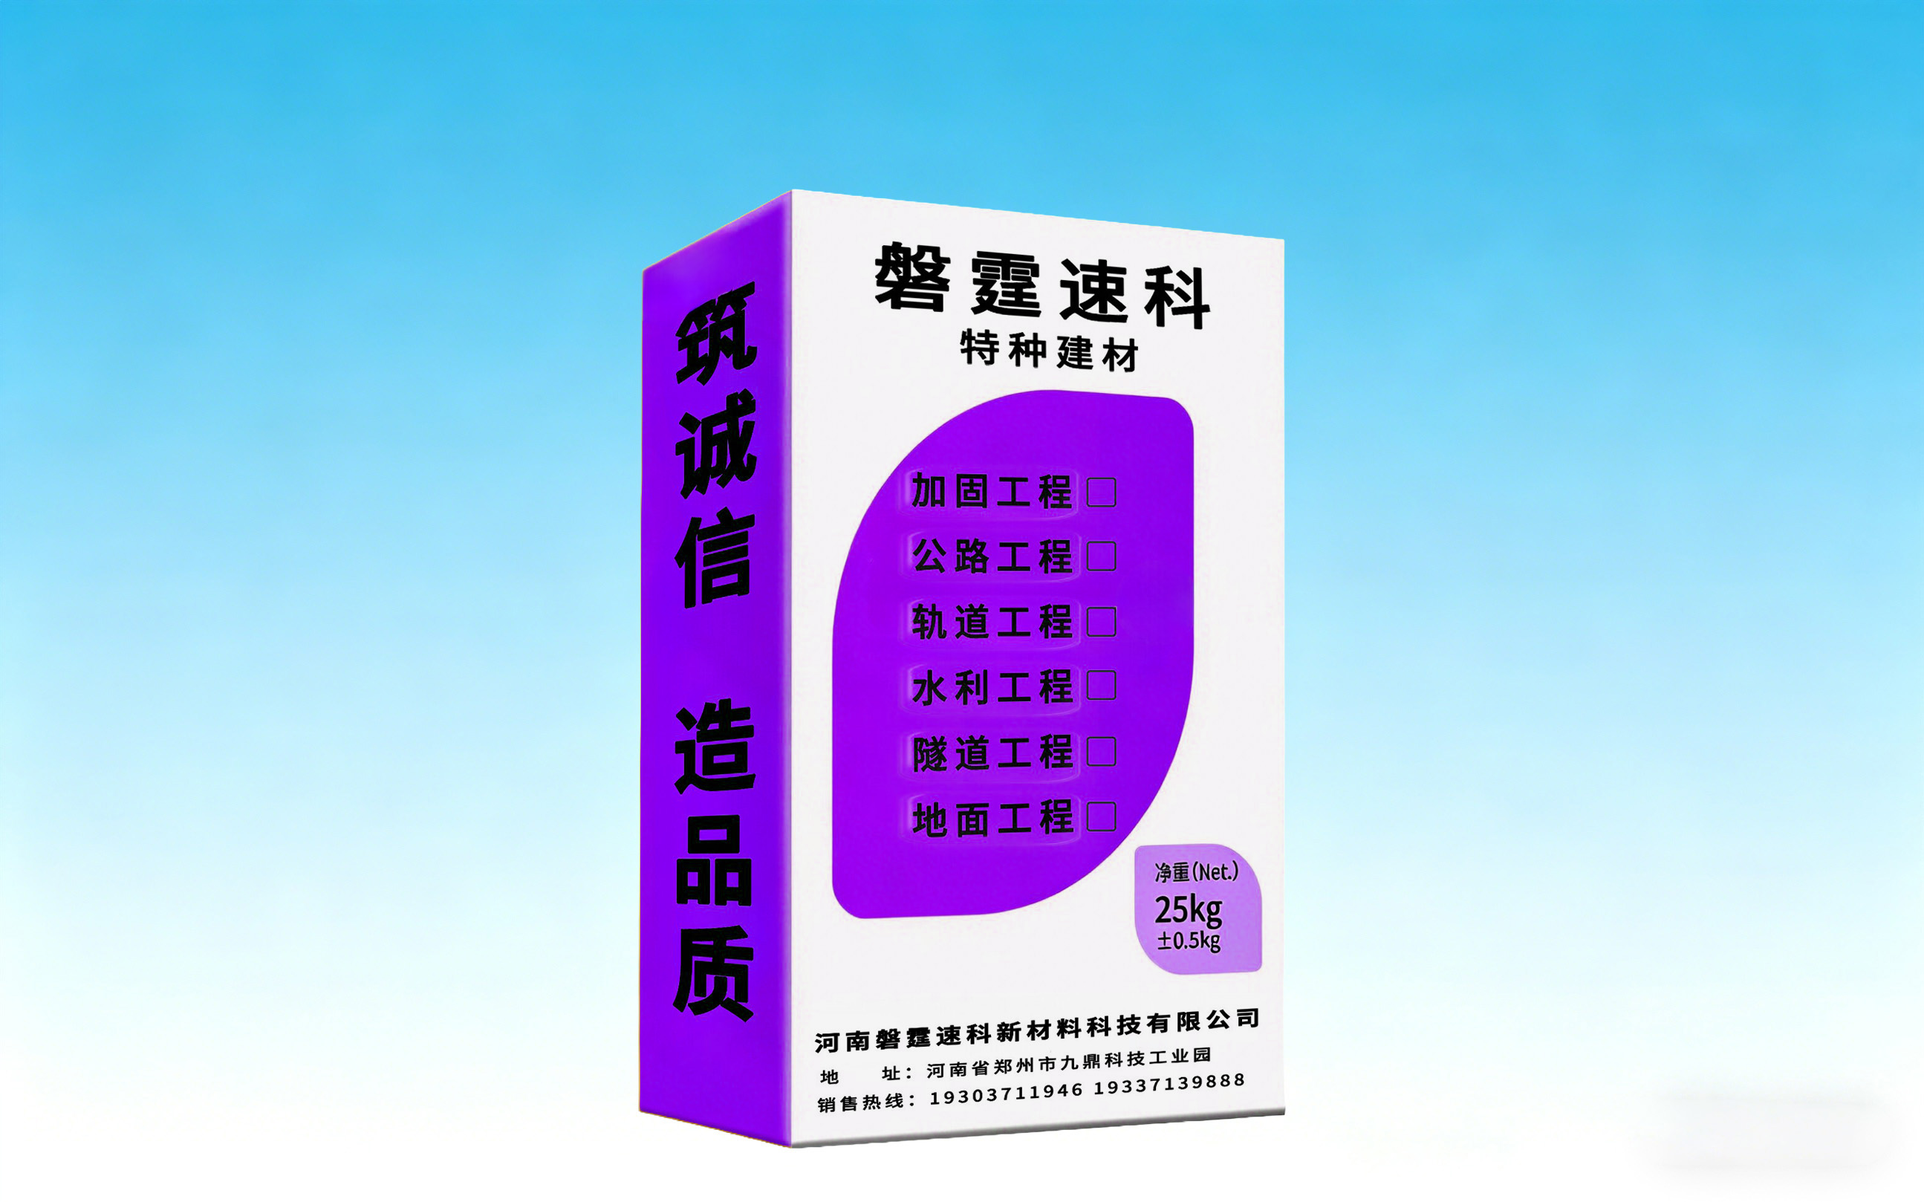
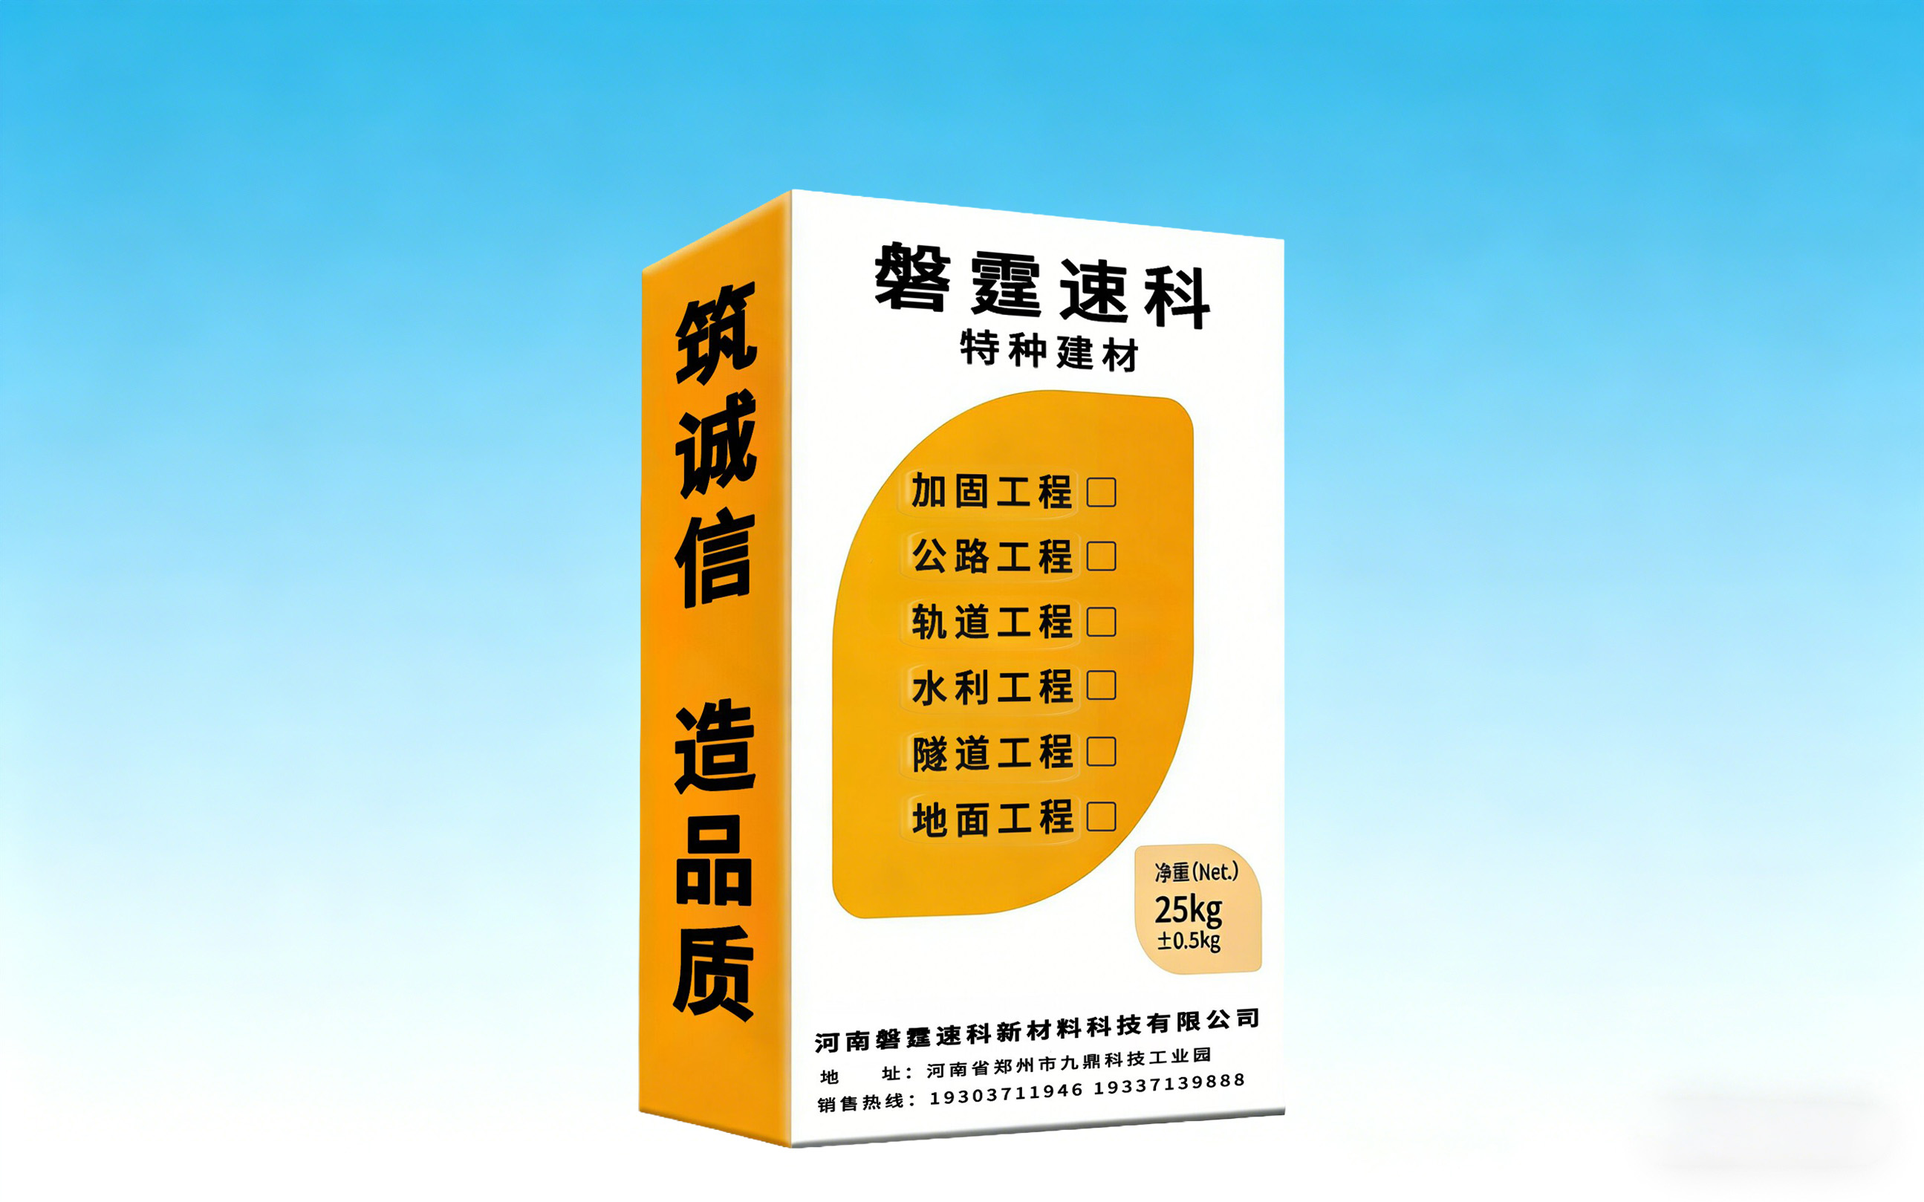
全部产品封面统一更换为products-1.jpg

Changed region(s): [[0.3089, 0.1545, 0.6795, 0.958]]

diff --git a/src/data/siteData.ts b/src/data/siteData.ts
@@ -77,7 +77,7 @@ export const initialProducts: Product[] = [
     name: '高强度无收缩灌浆料',
     category: 'guanjiang',
     description: '适用于设备基础二次灌浆、地脚螺栓锚固、钢结构柱脚底板灌浆等，具有高强度、无收缩、自流平特点。',
-    image: '/images/products/products-2.jpg',
+    image: '/images/products/products-1.jpg',
     features: ['早强高强', '自流平性', '无收缩', '耐久性好']
   },
   {
@@ -85,7 +85,7 @@ export const initialProducts: Product[] = [
     name: 'CGM风电专用灌浆料',
     category: 'guanjiang',
     description: '主要应用于陆上风力发电机超高强度水泥基灌浆，无收缩水泥基灌浆材料，具有高早期强度和终强度，高耐疲劳性，适用于风电等大型设备基础二次灌浆。',
-    image: '/images/products/products-2.jpg',
+    image: '/images/products/products-1.jpg',
     features: ['强度超高', '粘结力强', '耐久性好', '施工方便', '环保性好']
   },
   {
@@ -93,7 +93,7 @@ export const initialProducts: Product[] = [
     name: '聚合物防水砂浆',
     category: 'fangshui',
     description: '用于地下室、卫生间、水池等防水工程，抗渗性能优异。',
-    image: '/images/products/products-2.jpg',
+    image: '/images/products/products-1.jpg',
     features: ['抗渗性强', '粘结牢固', '耐腐蚀']
   },
   {
@@ -101,7 +101,7 @@ export const initialProducts: Product[] = [
     name: '丙乳砂浆',
     category: 'shajiang',
     description: '丙乳砂浆是一种新型混凝土建筑物修补材料，属于高分子聚合物乳液改性水泥砂浆，具有优异的粘结、抗裂、防水、防氯离子渗透、耐磨、耐老化等性能，成本低、施工工艺简单。',
-    image: '/images/products/products-2.jpg',
+    image: '/images/products/products-1.jpg',
     features: ['粘结力强', '抗裂性好', '防水防渗', '耐老化', '施工简便']
   },
   {
@@ -109,7 +109,7 @@ export const initialProducts: Product[] = [
     name: '重金属不发火砂浆',
     category: 'shajiang',
     description: '重金属不发火砂浆是一种功能性防爆砂浆，在受到冲击、摩擦或撞击时不产生火花，具有不燃、防爆、高耐磨、高强度、耐久性等特性，适用于易燃易爆场所。',
-    image: '/images/products/products-2.jpg',
+    image: '/images/products/products-1.jpg',
     features: ['不燃不爆', '高耐磨性', '高强度耐久', '环保安全', '施工方便']
   },
   {
@@ -117,7 +117,7 @@ export const initialProducts: Product[] = [
     name: '混凝土CPC防碳化涂料',
     category: 'fangshui',
     description: '高性能液体聚合物-水泥复合防碳化材料，含有独特组分与水泥水化产物反应，形成聚合物-水泥互穿网络结构，有效防止混凝土碳化。',
-    image: '/images/products/products-2.jpg',
+    image: '/images/products/products-1.jpg',
     features: ['防碳化', '渗透性强', '粘结牢固', '耐候性好']
   },
   {
@@ -125,7 +125,7 @@ export const initialProducts: Product[] = [
     name: '混凝土色差修复剂',
     category: 'fangshui',
     description: '用于修补各类混凝土表面，包括路面、桥面、机场跑道等，解决起砂、开裂等表面问题，可定制多种颜色。',
-    image: '/images/products/products-2.jpg',
+    image: '/images/products/products-1.jpg',
     features: ['修复色差', '颜色可定制', '附着力强', '耐久性好']
   },
   {
@@ -133,7 +133,7 @@ export const initialProducts: Product[] = [
     name: '重载耐磨地面砂浆',
     category: 'shajiang',
     description: '特种干混砂浆，能够承受重型机械摩擦和冲击，适用于金属撞击易产生火花引发火灾或爆炸危险的环境。',
-    image: '/images/products/products-2.jpg',
+    image: '/images/products/products-1.jpg',
     features: ['高耐磨', '抗冲击', '耐重载', '使用寿命长']
   },
   {
@@ -141,7 +141,7 @@ export const initialProducts: Product[] = [
     name: '钢筋连接套筒灌浆料',
     category: 'guanjiang',
     description: '由水泥、细骨料、矿物掺合料预拌而成的干混砂浆，具有低泌水、流动度好、强度高、微膨胀不收缩特点，适用于装配式建筑连接和基础灌浆。',
-    image: '/images/products/products-2.jpg',
+    image: '/images/products/products-1.jpg',
     features: ['低泌水', '流动度好', '强度高', '微膨胀不收缩']
   },
   {
@@ -149,7 +149,7 @@ export const initialProducts: Product[] = [
     name: '桥梁支座灌浆料',
     category: 'guanjiang',
     description: '高性能特种灌浆材料，主要适用于铁路、公路、桥梁等工程中的支座安装灌浆，以高强度骨料、高分子聚合物及各种外加剂混合而成的干混水泥基灌浆材料。',
-    image: '/images/products/products-2.jpg',
+    image: '/images/products/products-1.jpg',
     features: ['和易性好', '早强高强', '微膨胀', '可低温施工']
   },
   {
@@ -157,7 +157,7 @@ export const initialProducts: Product[] = [
     name: '保温砂浆',
     category: 'zhuangpeishi',
     description: '水泥基特种砂浆，具有保温隔热功能，适用于内外墙及屋顶保温层，满足建筑节能要求。',
-    image: '/images/products/products-4.jpg',
+    image: '/images/products/products-1.jpg',
     features: ['保温隔热', '节能环保', '施工方便', '粘结力强']
   },
   {
@@ -165,7 +165,7 @@ export const initialProducts: Product[] = [
     name: '自流平砂浆',
     category: 'shajiang',
     description: '水泥基自流平材料，能够自动流平无需振捣，用于地板铺设前的地面找平处理。',
-    image: '/images/products/products-2.jpg',
+    image: '/images/products/products-1.jpg',
     features: ['自动流平', '无需振捣', '平整度高', '施工快捷']
   },
   {
@@ -173,7 +173,7 @@ export const initialProducts: Product[] = [
     name: '重载防静电砂浆',
     category: 'shajiang',
     description: '防静电特种砂浆，在摩擦或撞击时不产生火花，适用于处理易燃易爆材料的环境，具有防静电和防爆双重功能。',
-    image: '/images/products/products-2.jpg',
+    image: '/images/products/products-1.jpg',
     features: ['防静电', '防爆防火', '高耐磨', '安全可靠']
   },
   {
@@ -181,7 +181,7 @@ export const initialProducts: Product[] = [
     name: '隔音砂浆',
     category: 'shajiang',
     description: '水泥基隔音特种砂浆，用于内墙和楼板隔音，有效解决冲击噪声和空气传声问题。',
-    image: '/images/products/products-2.jpg',
+    image: '/images/products/products-1.jpg',
     features: ['隔音降噪', '施工便捷', '粘结力强', '环保无害']
   },
   {
@@ -189,7 +189,7 @@ export const initialProducts: Product[] = [
     name: '找平砂浆',
     category: 'shajiang',
     description: '水泥基找平材料，具有高流动性、自密实特性，无需人工振捣即可自动找平。',
-    image: '/images/products/products-2.jpg',
+    image: '/images/products/products-1.jpg',
     features: ['自流平', '高流动性', '平整度高', '省工省时']
   },
   {
@@ -197,7 +197,7 @@ export const initialProducts: Product[] = [
     name: '锚栓砂浆',
     category: 'shajiang',
     description: '以水泥砂浆作为粘结剂的全粘结锚栓材料，将锚栓与周围岩土粘结形成整体，用于边坡和岩体结构加固。',
-    image: '/images/products/products-2.jpg',
+    image: '/images/products/products-1.jpg',
     features: ['锚固可靠', '粘结力强', '耐久稳定', '施工方便']
   },
   {
@@ -205,7 +205,7 @@ export const initialProducts: Product[] = [
     name: '界面砂浆',
     category: 'shajiang',
     description: '用于不同基层之间的粘结材料，提供新旧抹灰层之间的双面粘结力，防止空鼓、开裂和剥落。',
-    image: '/images/products/products-2.jpg',
+    image: '/images/products/products-1.jpg',
     features: ['双面粘结', '防空鼓', '防开裂', '附着力强']
   },
   {
@@ -213,7 +213,7 @@ export const initialProducts: Product[] = [
     name: '自密实砂浆',
     category: 'shajiang',
     description: '高性能特种砂浆，具有高流动性、耐候性和填充性，能自动填充复杂模板并包裹钢筋形成密实结构。',
-    image: '/images/products/products-2.jpg',
+    image: '/images/products/products-1.jpg',
     features: ['自密实', '高流动性', '填充性好', '耐候性强']
   },
   {
@@ -221,7 +221,7 @@ export const initialProducts: Product[] = [
     name: '导电砂浆',
     category: 'shajiang',
     description: '采用石墨、碳黑等导电材料制成的特种砂浆，能有效传导静电，28天抗压强度超过100N/mm²，48小时内可使用。',
-    image: '/images/products/products-2.jpg',
+    image: '/images/products/products-1.jpg',
     features: ['导电防静电', '强度高', '硬化快', '性能稳定']
   },
   {
@@ -229,7 +229,7 @@ export const initialProducts: Product[] = [
     name: '无机防水砂浆',
     category: 'shajiang',
     description: '以无机结晶防水为核心组分的水泥砂浆，能形成结晶防水层，有效防止渗漏。',
-    image: '/images/products/products-2.jpg',
+    image: '/images/products/products-1.jpg',
     features: ['结晶防水', '抗渗性强', '耐久性好', '环保安全']
   },
   {
@@ -237,7 +237,7 @@ export const initialProducts: Product[] = [
     name: '压浆料',
     category: 'guanjiang',
     description: '专用水泥基材料，主要由水泥、高效减水剂、膨胀剂和多种外加剂组成，具有良好流动性、稳定性、膨胀性和粘度，用于后张预应力管道灌浆。',
-    image: '/images/products/products-2.jpg',
+    image: '/images/products/products-1.jpg',
     features: ['流动性好', '稳定性强', '膨胀性佳', '施工便捷']
   },
   {
@@ -245,7 +245,7 @@ export const initialProducts: Product[] = [
     name: '预应力管道压浆料',
     category: 'guanjiang',
     description: '专用水泥基灌浆材料，适用于公路、铁路、核电等工程的有粘结预应力管道灌浆。',
-    image: '/images/products/products-2.jpg',
+    image: '/images/products/products-1.jpg',
     features: ['高压灌注', '密实填充', '粘结可靠', '耐久性强']
   },
   {
@@ -253,7 +253,7 @@ export const initialProducts: Product[] = [
     name: '超细水泥灌浆料',
     category: 'guanjiang',
     description: '采用高强度超细水泥、膨胀剂和稳定剂制成的均匀无机超细灌浆材料，具有超细粒径、高强度、不离析的特点。',
-    image: '/images/products/products-2.jpg',
+    image: '/images/products/products-1.jpg',
     features: ['超细粒径', '高强度', '不离析', '渗透性强']
   },
   {
@@ -261,7 +261,7 @@ export const initialProducts: Product[] = [
     name: '环氧树脂灌浆料',
     category: 'guanjiang',
     description: '由水性环氧树脂和水性固化剂组成，与水泥基灌浆料混合形成有机-无机复合网络结构，粘结强度高，抗渗耐化学性好。',
-    image: '/images/products/products-2.jpg',
+    image: '/images/products/products-1.jpg',
     features: ['粘结强度高', '抗渗性好', '耐化学腐蚀', '固化快']
   },
   {
@@ -269,7 +269,7 @@ export const initialProducts: Product[] = [
     name: '轨道支座灌浆料',
     category: 'guanjiang',
     description: '高性能干粉灌浆材料，主要用于铁路、公路、桥梁等工程中的支座安装灌浆。',
-    image: '/images/products/products-2.jpg',
+    image: '/images/products/products-1.jpg',
     features: ['高强耐久', '微膨胀', '流动度好', '安装精准']
   },
   {
@@ -277,7 +277,7 @@ export const initialProducts: Product[] = [
     name: '水下抗分散灌浆料',
     category: 'guanjiang',
     description: '用于水下桩基、围堰、岩石灌浆、地下连续墙和防水堵漏工程的水下专用灌浆材料，具有优异的水下抗分散性。',
-    image: '/images/products/products-2.jpg',
+    image: '/images/products/products-1.jpg',
     features: ['水下抗分散', '堵漏止水', '粘结力强', '施工方便']
   },
   {
@@ -285,7 +285,7 @@ export const initialProducts: Product[] = [
     name: '混凝土防腐剂',
     category: 'fangshui',
     description: '专用于防止混凝土中钢筋腐蚀的化学材料，能有效提高混凝土结构耐久性和安全性，抑制钢筋腐蚀、提高密实度和抗渗性。',
-    image: '/images/products/products-2.jpg',
+    image: '/images/products/products-1.jpg',
     features: ['防腐阻锈', '提高密实度', '抗渗性好', '延长寿命']
   },
   {
@@ -293,7 +293,7 @@ export const initialProducts: Product[] = [
     name: '钢筋阻锈剂',
     category: 'fangshui',
     description: '专用于防止钢筋混凝土中钢筋锈蚀的化学材料，通过抑制钢筋腐蚀的电化学过程延长结构使用寿命，直接涂刷于钢筋起到钝化防腐作用。',
-    image: '/images/products/products-2.jpg',
+    image: '/images/products/products-1.jpg',
     features: ['钝化钢筋', '阻止腐蚀', '涂刷方便', '耐久可靠']
   },
   {
@@ -301,7 +301,7 @@ export const initialProducts: Product[] = [
     name: '透水砼胶结剂',
     category: 'fangshui',
     description: '一种用于改善透水性铺装产品集料间粘结性能、提高产品强度的综合胶凝材料，适用于人行道、自行车道、公园绿地等透水混凝土施工场合。',
-    image: '/images/products/products-2.jpg',
+    image: '/images/products/products-1.jpg',
     features: ['高透水性', '抗压粘结强', '抗冻融', '耐久耐候']
   },
   {
@@ -309,7 +309,7 @@ export const initialProducts: Product[] = [
     name: '混凝土养护剂',
     category: 'fangshui',
     description: '液体成膜养护产品，喷涂于混凝土或砂浆表面后迅速形成无色不透水薄膜，防止水分蒸发，减缓混凝土收缩和开裂。',
-    image: '/images/products/products-2.jpg',
+    image: '/images/products/products-1.jpg',
     features: ['成膜快', '保水养护', '防开裂', '使用方便']
   },
   {
@@ -317,7 +317,7 @@ export const initialProducts: Product[] = [
     name: '聚合物弹性防水涂料',
     category: 'fangshui',
     description: '以合成高分子聚合物为主要成分，经乳化、分散、固化等工艺形成具有一定厚度和弹性的涂膜，起到防水、防腐、防漏作用。',
-    image: '/images/products/products-2.jpg',
+    image: '/images/products/products-1.jpg',
     features: ['弹性涂膜', '防水防漏', '防腐耐久', '附着力强']
   },
   {
@@ -325,7 +325,7 @@ export const initialProducts: Product[] = [
     name: '混凝土地面硬化剂',
     category: 'fangshui',
     description: '增强混凝土表面硬度和耐磨性能的化学材料，通过化学反应形成坚硬表面保护膜，提高混凝土表面硬度和抗渗性。',
-    image: '/images/products/products-2.jpg',
+    image: '/images/products/products-1.jpg',
     features: ['表面硬化', '高耐磨', '抗渗防尘', '施工简单']
   },
   {
@@ -333,7 +333,7 @@ export const initialProducts: Product[] = [
     name: '混凝土防护剂',
     category: 'fangshui',
     description: '用于保护混凝土结构的化学制剂，通过渗透作用形成网状聚硅氧烷高分子基团，固化为憎水层附着在毛细管内壁形成致密保护层。',
-    image: '/images/products/products-2.jpg',
+    image: '/images/products/products-1.jpg',
     features: ['渗透防护', '憎水耐久', '致密保护', '施工便捷']
   },
   {
@@ -341,7 +341,7 @@ export const initialProducts: Product[] = [
     name: '加强聚合物砂浆',
     category: 'zhuangpeishi',
     description: '高分子合成材料，具有高粘结力、抗裂性和施工性，兼具防水、耐磨、耐老化性能，适用于建筑保温板之间及防水耐磨装饰。',
-    image: '/images/products/products-4.jpg',
+    image: '/images/products/products-1.jpg',
     features: ['粘结力强', '抗裂性好', '防水耐磨', '耐老化']
   },
   {
@@ -349,7 +349,7 @@ export const initialProducts: Product[] = [
     name: '粘结砂浆',
     category: 'zhuangpeishi',
     description: '由水泥、石灰、石英砂和聚合物组成的粘结材料，用于瓷砖、石材等装饰材料与墙面的粘结，具有良好的施工性和附着力。',
-    image: '/images/products/products-4.jpg',
+    image: '/images/products/products-1.jpg',
     features: ['附着力强', '施工性好', '粘结牢固', '不空鼓']
   },
   {
@@ -357,7 +357,7 @@ export const initialProducts: Product[] = [
     name: '聚合物抗裂砂浆',
     category: 'zhuangpeishi',
     description: '改性合成材料，兼具聚合物粘结力和无机材料耐久性，抗压强度高、固化迅速、粘结性好、保水性佳，适用于潮湿基面施工。',
-    image: '/images/products/products-4.jpg',
+    image: '/images/products/products-1.jpg',
     features: ['抗压强度高', '固化迅速', '保水性好', '柔性抗裂']
   },
   {
@@ -365,7 +365,7 @@ export const initialProducts: Product[] = [
     name: '环氧植筋胶',
     category: 'tezhong',
     description: '双组分环氧树脂结构胶，用于混凝土结构植筋加固，具有极高的粘结强度和耐腐蚀性能。',
-    image: '/images/products/products-3.jpg',
+    image: '/images/products/products-1.jpg',
     features: ['粘结力强', '耐腐蚀', '耐久性好', '强度高']
   },
   {
@@ -373,7 +373,7 @@ export const initialProducts: Product[] = [
     name: '环氧封缝胶',
     category: 'tezhong',
     description: '环氧树脂基裂缝封闭材料，用于混凝土表面裂缝的封闭处理，防止水分和有害物质渗入。',
-    image: '/images/products/products-3.jpg',
+    image: '/images/products/products-1.jpg',
     features: ['封闭性好', '附着力强', '耐候耐久', '施工简便']
   },
   {
@@ -381,7 +381,7 @@ export const initialProducts: Product[] = [
     name: '环氧灌缝胶',
     category: 'tezhong',
     description: '低粘度环氧树脂灌缝材料，具有优异的渗透性，可深入混凝土细微裂缝进行灌注修复。',
-    image: '/images/products/products-3.jpg',
+    image: '/images/products/products-1.jpg',
     features: ['低粘度', '渗透性强', '强度高', '固化稳定']
   },
   {
@@ -389,7 +389,7 @@ export const initialProducts: Product[] = [
     name: '环氧粘钢胶',
     category: 'tezhong',
     description: '环氧树脂基粘钢专用结构胶，用于将钢板粘贴到混凝土表面进行结构补强，具有高强度和高耐久性。',
-    image: '/images/products/products-3.jpg',
+    image: '/images/products/products-1.jpg',
     features: ['高强度', '粘结牢固', '耐老化', '施工性好']
   },
   {
@@ -397,7 +397,7 @@ export const initialProducts: Product[] = [
     name: '硅烷浸渍剂',
     category: 'fangshui',
     description: '以硅烷为主要成分的混凝土防护浸渍材料，能深层渗透混凝土内部形成憎水层，有效阻止水分和氯离子侵入，提高混凝土耐久性。',
-    image: '/images/products/products-2.jpg',
+    image: '/images/products/products-1.jpg',
     features: ['深层渗透', '憎水防护', '抗氯离子', '耐久性好']
   },
 ];
